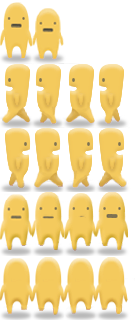
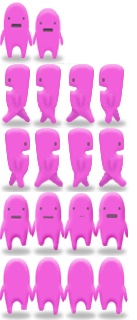
changed player images, some data, few code clean ups

diff --git a/data/colors.js b/data/colors.js
@@ -4,19 +4,19 @@ module.exports.global = [{
 	b: 243
 },
 {
-	r: 214,
-	g: 95,
-	b: 243
+	r: 106,
+	g: 220,
+	b: 230
 },
 {
 	r: 242,
-	g: 95,
-	b: 218
+	g: 202,
+	b: 93
 },
 {
-	r: 227,
-	g: 93,
-	b: 183
+	r: 184,
+	g: 239,
+	b: 98
 },
 {
 	r: 236,
@@ -24,19 +24,19 @@ module.exports.global = [{
 	b: 168
 },
 {
-	r: 243,
-	g: 101,
-	b: 121
+	r: 109,
+	g: 227,
+	b: 209
 },
 {
-	r: 241,
-	g: 93,
+	r: 242,
+	g: 243,
+	b: 95
+},
+{
+	r: 146,
+	g: 235,
 	b: 103
-},
-{
-	r: 245,
-	g: 113,
-	b: 91
 },
 {
 	r: 245,
@@ -44,9 +44,9 @@ module.exports.global = [{
 	b: 93
 },
 {
-	r: 242,
-	g: 150,
-	b: 95
+	r: 108,
+	g: 230,
+	b: 179
 },
 {
 	r: 241,
@@ -55,8 +55,8 @@ module.exports.global = [{
 },
 {
 	r: 242,
-	g: 202,
-	b: 93
+	g: 95,
+	b: 218
 },
 {
 	r: 242,
@@ -69,9 +69,9 @@ module.exports.global = [{
 	b: 99
 },
 {
-	r: 242,
-	g: 243,
-	b: 95
+	r: 241,
+	g: 93,
+	b: 103
 },
 {
 	r: 233,
@@ -79,9 +79,9 @@ module.exports.global = [{
 	b: 98
 },
 {
-	r: 220,
-	g: 245,
-	b: 94
+	r: 243,
+	g: 101,
+	b: 121
 },
 {
 	r: 203,
@@ -89,14 +89,14 @@ module.exports.global = [{
 	b: 93
 },
 {
-	r: 184,
-	g: 239,
-	b: 98
+	r: 227,
+	g: 93,
+	b: 183
 },
 {
-	r: 146,
-	g: 235,
-	b: 103
+	r: 245,
+	g: 113,
+	b: 91
 },
 {
 	r: 122,
@@ -104,18 +104,18 @@ module.exports.global = [{
 	b: 158
 },
 {
-	r: 108,
-	g: 230,
-	b: 179
+	r: 242,
+	g: 150,
+	b: 95
 },
 {
-	r: 109,
-	g: 227,
-	b: 209
+	r: 220,
+	g: 245,
+	b: 94
 },
-{
-	r: 106,
-	g: 220,
-	b: 230
+{	
+	r: 214,
+	g: 95,
+	b: 243
 }
 ];

diff --git a/data/users.js b/data/users.js
@@ -23,11 +23,11 @@ module.exports.global = [{
 		},
 		colorInfo: {
 			rgb: {
-				r: 140,
-				g: 225,
-				b: 161
+				r: 106,
+				g: 220,
+				b: 230
 			},
-			tilesheet: 1
+			tilesheet: 2
 		},
 		resources: [],
 		inventory: [],
@@ -110,11 +110,11 @@ module.exports.global = [{
 		},
 		colorInfo: {
 			rgb: {
-				r: 157,
-				g: 45,
+				r: 205,
+				g: 95,
 				b: 243
 			},
-			tilesheet: 4
+			tilesheet: 1
 		},
 		resources: [],
 		inventory: [],
@@ -152,9 +152,51 @@ module.exports.global = [{
 		},
 		colorInfo: {
 			rgb: {
-				r: 157,
-				g: 45,
-				b: 243
+				r: 242,
+				g: 202,
+				b: 93
+			},
+			tilesheet: 3
+		},
+		resources: [],
+		inventory: [],
+		seeds: {
+			normal: 0,
+			riddle: 0,
+			special: 0,
+			dropped: 0
+		},
+		gnomeState: 0,
+		resume: [],
+		seenThing: false,
+		resourcesDiscovered: 0,
+		playingTime: 0,
+		tilesColored: 0,
+		pledges: 5
+	}
+}, {
+	firstName: 'Another',
+	lastName: 'Tester',
+	password: '',
+	email: 'a',
+	role: 'actor',
+	gameStarted: true,
+	profileSetup: true,
+	profileUnlocked: false,
+	game: {
+		instanceName: 'awesome',
+		currentLevel: 0,
+		rank: 'novice gardener',
+		position: {
+			x: 66,
+			y: 76,
+			inTransit: false
+		},
+		colorInfo: {
+			rgb: {
+				r: 184,
+				g: 239,
+				b: 98
 			},
 			tilesheet: 4
 		},

diff --git a/client/code/game/resources.js b/client/code/game/resources.js
@@ -93,7 +93,7 @@ $game.$resources = {
 		_questionType = _curResource.questionType;
 		_feedbackRight = _curResource.feedbackRight;
 
-		var npcLevel = $game.$npc.getNpcLevel(8986);
+		var npcLevel = $game.$npc.getNpcLevel(index);
 		if(npcLevel <= $game.$player.game.currentLevel) {
 			var url = '/articles/level' + (npcLevel + 1) + '/' + _curResource.id + '.html';
 			console.log(url);

diff --git a/client/code/game/game.js b/client/code/game/game.js
@@ -546,6 +546,7 @@ exports.$game = {
 
 		//save and show player's colors
 		var myImageSrc = $game.$map.saveImage();
+		$game.$map.createCollectiveImage();
 
 		$('.levelImages img').removeClass('currentLevelImage');
 		$('.levelImages img:nth-child(' + ($game.$player.game.currentLevel + 1) + ')').addClass('currentLevelImage');

diff --git a/client/code/game/map.js b/client/code/game/map.js
@@ -69,7 +69,7 @@ $game.$map = {
 				console.log(curTile);
 				$game.$renderer.clearMapTile(loc.x * $game.TILE_SIZE, loc.y * $game.TILE_SIZE);
 				$game.$renderer.renderTile(loc.x,loc.y);
-				
+
 				if(id === $game.$player.id) {
 					$game.$renderer.renderMiniTile(bombed[b].x, bombed[b].y, bombed[b].color);
 				}

diff --git a/client/static/articles/level2/9170.html b/client/static/articles/level2/9170.html
@@ -21,13 +21,5 @@
 			<br>
 			International Institute 2002
 		</p>
-
-
-
-
-
-
-
-" </p>
 	</section>
 </div>
